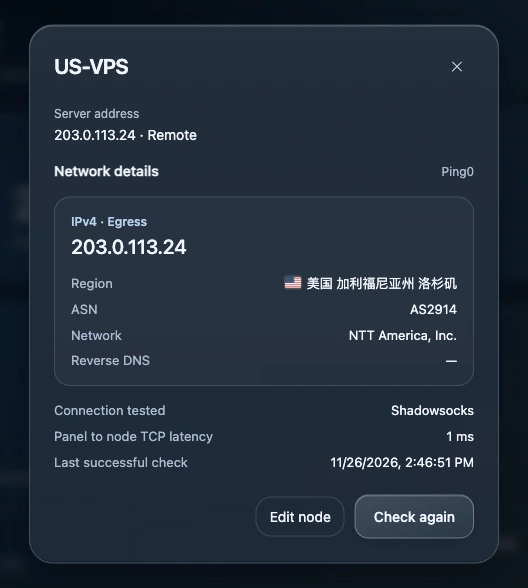
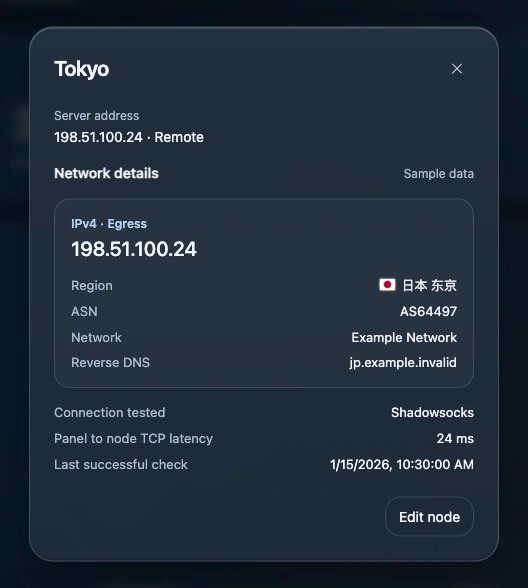
Generate documentation screenshots from fictional offline nodes

diff --git a/web/panel.js b/web/panel.js
@@ -27,6 +27,17 @@ const t = (zh, english) => en ? english : zh;
 const isSubs = () => location.hash === "#subscriptions";
 const allLines = () => nodes.flatMap(n=>n.lines.map(p=>({key:n.id+"/"+p,label:n.name+" · "+protocols[p]})));
 const live = location.protocol !== "file:";
+if (!live) {
+  const regions = ["中国香港", "日本 东京", "新加坡", "美国 洛杉矶"];
+  nodes.forEach((node,index)=>{
+    node.network={
+      addresses:[{ip:node.host,location:regions[index],asn:"AS"+(64496+index),
+        organization:"Example Network",ptr:node.id+".example.invalid"}],
+      checked:"2026-01-15T02:30:00Z",protocol:node.lines[0]
+    };
+    if(node.lines[0]!==2) node.network.tcpMillis=[2,24,0,96][index];
+  });
+}
 const subUrl = sub => (live ? location.origin : "https://demo.invalid")+"/s/"+sub.id;
 let signedIn=live?null:false;
 async function request(path, data) {
@@ -138,7 +149,7 @@ function showNode(n) {
     <dl>${addr.location?`<dt>${t("地区","Region")}</dt><dd>${regionFlag(addr.location)}${esc(addr.location)}</dd>`:""}${row("ASN",addr.asn)}${row(t("网络名称","Network"),addr.organization)}${row(t("反向域名","Reverse DNS"),addr.ptr||"—")}</dl></section>`).join("");
   dialog(n.name,`<div class="form-stack">
     <div><small>${t("服务器地址","Server address")}</small><div>${esc(n.host)} · ${n.local?t("本机","Local"):t("远程","Remote")}</div></div>
-    <div class="network-heading"><h3>${t("网络信息","Network details")}</h3><small>Ping0</small></div>
+    <div class="network-heading"><h3>${t("网络信息","Network details")}</h3><small>${live?"Ping0":t("模拟数据","Sample data")}</small></div>
     ${addresses||'<small>'+t("暂无出口检测结果","No egress result yet")+'</small>'}
     ${info?`<dl class="probe-meta">${row(t("检测线路","Connection tested"),protocols[info.protocol])}${row(t("面板到节点 TCP 延迟","Panel to node TCP latency"),info.tcpMillis==null?null:info.tcpMillis+" ms")}${row(t("上次成功检测","Last successful check"),new Date(info.checked).toLocaleString(en?"en-US":"zh-CN"))}</dl>`:""}
     <div class="actions"><button class="quiet" id="edit-node">${t("编辑节点","Edit node")}</button>${live?`<button class="primary" id="refresh-network">${t("重新检测","Check again")}</button>`:""}</div>

diff --git a/README.en.md b/README.en.md
@@ -15,7 +15,7 @@ A lightweight, self-hosted panel for local and remote Linux nodes. Combine Shado
 
 </details>
 
-Server and egress addresses in these screenshots use documentation IPs.
+Screenshots use the offline demo with fictional servers, documentation IPs and ASNs, and simulated network checks.
 
 ## Supported systems
 

diff --git a/README.md b/README.md
@@ -15,7 +15,7 @@
 
 </details>
 
-截图中的服务器和出口地址已替换为文档示例 IP。
+截图来自离线演示。服务器、出口 IP、网络名称、ASN 和检测结果均为模拟数据。
 
 ## 支持的系统
 
